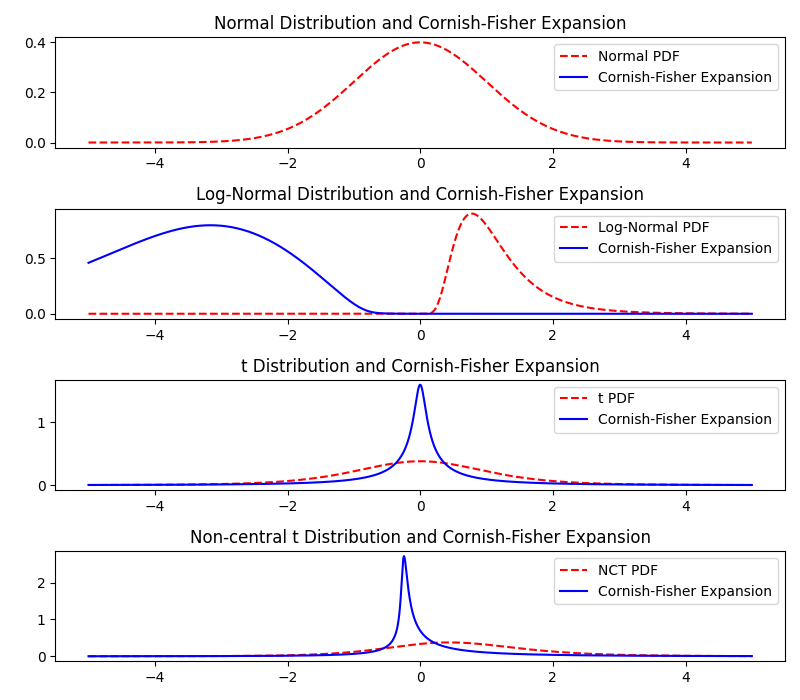
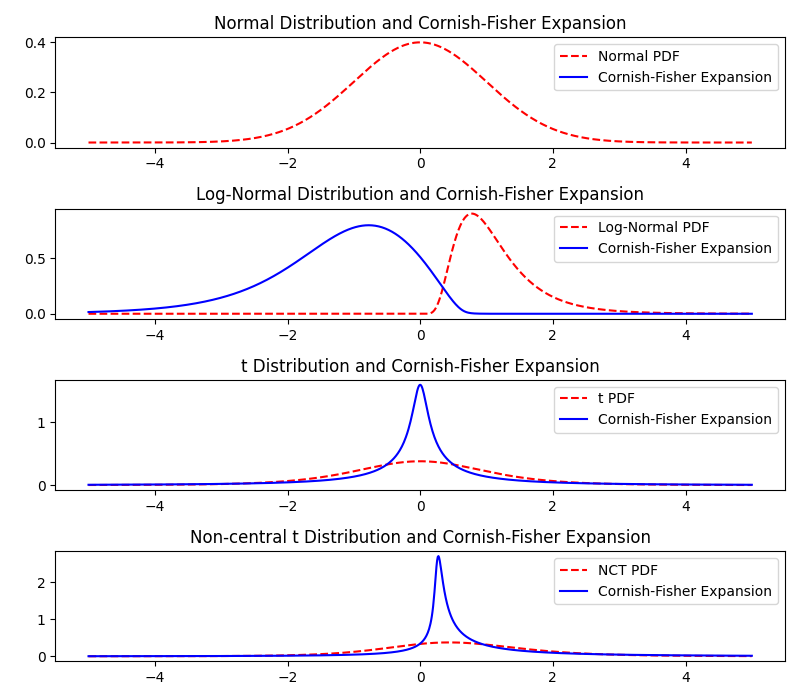
fix: didn't care about mean and variance

diff --git a/python/cornish-fisher-expansion.py b/python/cornish-fisher-expansion.py
@@ -2,15 +2,18 @@ import numpy as np
 import matplotlib.pyplot as plt
 from scipy.stats import norm, lognorm, t, nct
 
-def cornish_fisher_expansion(x, skew, kurt):
+def cornish_fisher_expansion(x, mean, var, skew, kurt):
     """Returns the Cornish-Fisher expansion of a random variable x with skewness skew and kurtosis kurt.
-    Source: "Option Pricing Under Skewness and Kurtosis Using a Cornish–Fisher Expansion"
+    Source: "Option Pricing Under Skewness and Kurtosis Using a Cornish-Fisher Expansion"
 
     Args:
         x (float): The value of the random variable.
+        mean (float): The mean of the random variable.
+        var (float): The variance of the random variable.
         skew (float): The skewness of the random variable.
         kurt (float): The kurtosis of the random variable.
     """
+    x = (x - mean) / np.sqrt(var)
     a = (-skew)/(kurt/8 - (skew**2)/3)
     b = kurt/24 - (skew**2)/18
     p = (1 - kurt/8 + 5*(skew**2)/36)/(kurt/24 - (skew**2)/18) - 1/3 * ((skew**2)/36)/((kurt/24 - (skew**2)/18)**2)
@@ -27,10 +30,10 @@ def cornish_fisher_expansion(x, skew, kurt):
 # print(cornish_fisher_expansion(0.5, 0.5, 2))
 
 # Calculate skewness and kurtosis
-normal_skew, normal_kurt = norm.stats(moments='sk')
-lognorm_skew, lognorm_kurt = lognorm.stats(0.5, moments = 'sk')
-t_skew, t_kurt = t.stats(5, moments = 'sk')
-nct_skew, nct_kurt = nct.stats(5, 0.5, moments = 'sk')
+normal_mean, normal_var, normal_skew, normal_kurt = norm.stats(moments='mvsk')
+lognorm_mean, lognorm_var, lognorm_skew, lognorm_kurt = lognorm.stats(0.5, moments = 'mvsk')
+t_mean, t_var, t_skew, t_kurt = t.stats(5, moments = 'mvsk')
+nct_mean, nct_var, nct_skew, nct_kurt = nct.stats(5, 0.5, moments = 'mvsk')
 
 print(normal_skew, normal_kurt)
 print(lognorm_skew, lognorm_kurt)
@@ -41,10 +44,10 @@ print(nct_skew, nct_kurt)
 x = np.linspace(-5, 5, 1000)
 
 # Apply Gram-Charlier expansion
-normal_expansion = cornish_fisher_expansion(x, normal_skew, normal_kurt)
-lognorm_expansion = cornish_fisher_expansion(x, lognorm_skew, lognorm_kurt)
-t_expansion = cornish_fisher_expansion(x, t_skew, t_kurt)
-nct_expansion = cornish_fisher_expansion(x, nct_skew, nct_kurt)
+normal_expansion = cornish_fisher_expansion(x, normal_mean, normal_var, normal_skew, normal_kurt)
+lognorm_expansion = cornish_fisher_expansion(x, lognorm_mean, lognorm_var,lognorm_skew, lognorm_kurt)
+t_expansion = cornish_fisher_expansion(x, t_mean, t_var, t_skew, t_kurt)
+nct_expansion = cornish_fisher_expansion(x, nct_mean, nct_var, nct_skew, nct_kurt)
 
 # Plotting
 plt.figure(figsize=(8, 7))

diff --git a/python/gc_positivity_constraints.py b/python/gc_positivity_constraints.py
@@ -67,14 +67,15 @@ def hermite_polynomial(n, x):
         return x * hermite_polynomial(n-1, x) - (n-1) * hermite_polynomial(n-2, x)
 
 # Function to generate Gram-Charlier expansion
-def gram_charlier_expansion(x, skewness, kurtosis):
-    return norm.pdf(x) * (1 + skewness/6 * hermite_polynomial(3, x) + kurtosis/24 * hermite_polynomial(4, x))
+def gram_charlier_expansion(x, mean, variance, skewness, kurtosis):
+    z = (x - mean) / np.sqrt(variance)
+    return norm.pdf(z) * (1 + skewness/6 * hermite_polynomial(3, z) + kurtosis/24 * hermite_polynomial(4, z))
 
 # Calculate skewness and kurtosis
-normal_skew, normal_kurt = norm.stats(moments='sk')
-lognorm_skew, lognorm_kurt = lognorm.stats(0.5, moments = 'sk')
-t_skew, t_kurt = t.stats(5, moments = 'sk')
-nct_skew, nct_kurt = nct.stats(5, 0.5, moments = 'sk')
+normal_mean, normal_var, normal_skew, normal_kurt = norm.stats(moments='mvsk')
+lognorm_mean, lognorm_var, lognorm_skew, lognorm_kurt = lognorm.stats(0.5, moments = 'mvsk')
+t_mean, t_var, t_skew, t_kurt = t.stats(5, moments = 'mvsk')
+nct_mean, nct_var, nct_skew, nct_kurt = nct.stats(5, 0.5, moments = 'mvsk')
 
 print(normal_skew, normal_kurt)
 print(lognorm_skew, lognorm_kurt)
@@ -104,10 +105,10 @@ plt.show()
 x = np.linspace(-5, 5, 1000)
 
 # Apply Gram-Charlier expansion
-normal_expansion = gram_charlier_expansion(x, normal_skew, normal_kurt)
-lognorm_expansion = gram_charlier_expansion(x, lognorm_skew, lognorm_kurt)
-t_expansion = gram_charlier_expansion(x, t_skew, t_kurt)
-nct_expansion = gram_charlier_expansion(x, nct_skew, nct_kurt)
+normal_expansion = gram_charlier_expansion(x, normal_mean, normal_var, normal_skew, normal_kurt)
+lognorm_expansion = gram_charlier_expansion(x, lognorm_mean, lognorm_var, lognorm_skew, lognorm_kurt)
+t_expansion = gram_charlier_expansion(x, t_mean, t_var, t_skew, t_kurt)
+nct_expansion = gram_charlier_expansion(x, nct_mean, nct_var, nct_skew, nct_kurt)
 
 # Plotting
 plt.figure(figsize=(8, 7))

diff --git a/python/gc_expansion.py b/python/gc_expansion.py
@@ -19,14 +19,15 @@ def hermite_polynomial(n, x):
 # plt.show()
 
 # Function to generate Gram-Charlier expansion
-def gram_charlier_expansion(x, skewness, kurtosis):
-    return norm.pdf(x) * (1 + skewness/6 * hermite_polynomial(3, x) + kurtosis/24 * hermite_polynomial(4, x))
+def gram_charlier_expansion(x, mean, variance, skewness, kurtosis):
+    z = (x - mean) / np.sqrt(variance)
+    return norm.pdf(z) * (1 + skewness/6 * hermite_polynomial(3, z) + kurtosis/24 * hermite_polynomial(4, z))
 
 # Calculate skewness and kurtosis
-normal_skew, normal_kurt = norm.stats(moments='sk')
-lognorm_skew, lognorm_kurt = lognorm.stats(0.5, moments = 'sk')
-t_skew, t_kurt = t.stats(5, moments = 'sk')
-nct_skew, nct_kurt = nct.stats(5, 0.5, moments = 'sk')
+normal_mean, normal_var, normal_skew, normal_kurt = norm.stats(moments='mvsk')
+lognorm_mean, lognorm_var, lognorm_skew, lognorm_kurt = lognorm.stats(0.5, moments = 'mvsk')
+t_mean, t_var, t_skew, t_kurt = t.stats(5, moments = 'mvsk')
+nct_mean, nct_var, nct_skew, nct_kurt = nct.stats(5, 0.5, moments = 'mvsk')
 
 print(normal_skew, normal_kurt)
 print(lognorm_skew, lognorm_kurt)
@@ -37,10 +38,10 @@ print(nct_skew, nct_kurt)
 x = np.linspace(-5, 5, 1000)
 
 # Apply Gram-Charlier expansion
-normal_expansion = gram_charlier_expansion(x, normal_skew, normal_kurt)
-lognorm_expansion = gram_charlier_expansion(x, lognorm_skew, lognorm_kurt)
-t_expansion = gram_charlier_expansion(x, t_skew, t_kurt)
-nct_expansion = gram_charlier_expansion(x, nct_skew, nct_kurt)
+normal_expansion = gram_charlier_expansion(x, normal_mean, normal_var, normal_skew, normal_kurt)
+lognorm_expansion = gram_charlier_expansion(x, lognorm_mean, lognorm_var, lognorm_skew, lognorm_kurt)
+t_expansion = gram_charlier_expansion(x, t_mean, t_var, t_skew, t_kurt)
+nct_expansion = gram_charlier_expansion(x, nct_mean, nct_var, nct_skew, nct_kurt)
 
 # Plotting
 plt.figure(figsize=(8, 7))

diff --git a/python/expansion_test.md b/python/expansion_test.md
@@ -35,7 +35,7 @@ Transforms skewness and kurtosis to
 - nct: 0.024892965655198204 3.9970717567756724
 
 ![alt text](gc_positivity_expansion.png)
-- fit is not good
+- fit is not good, but better
 - alt least no negativity
 
 ![alt text](gc_positivity_boundary.png)
@@ -44,4 +44,4 @@ Transforms skewness and kurtosis to
 
 ![alt text](cf_expansion.png)
 - fit is not good
-- skewness has wrong sign (?), GC expansion seems to suffer from the same problem, middle of distribution is on the wrong side
+- for lognormal, main mass of pdf is on wrong side
